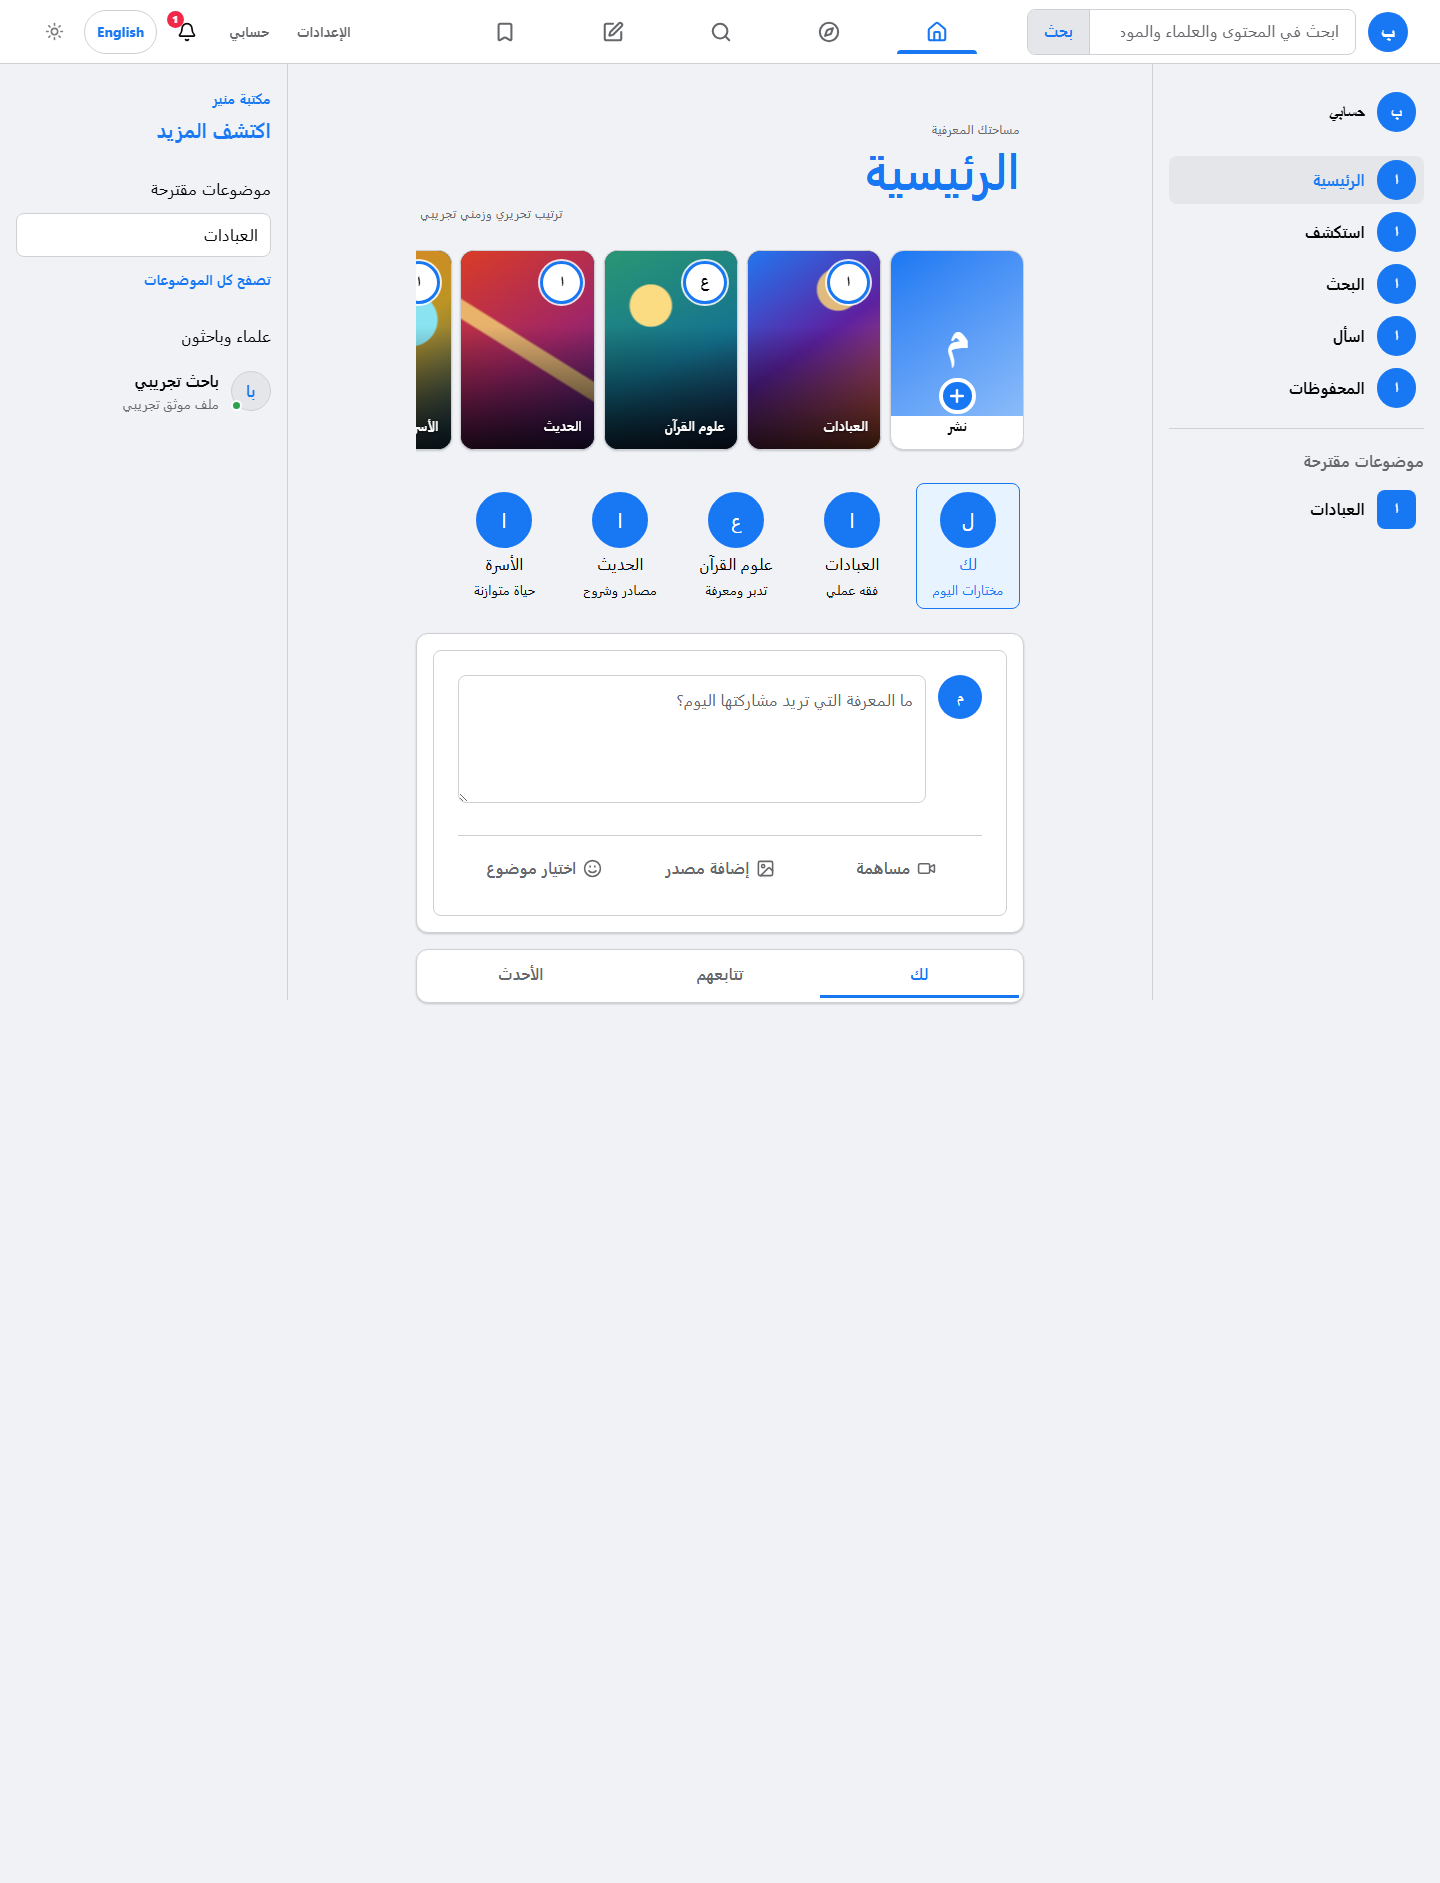
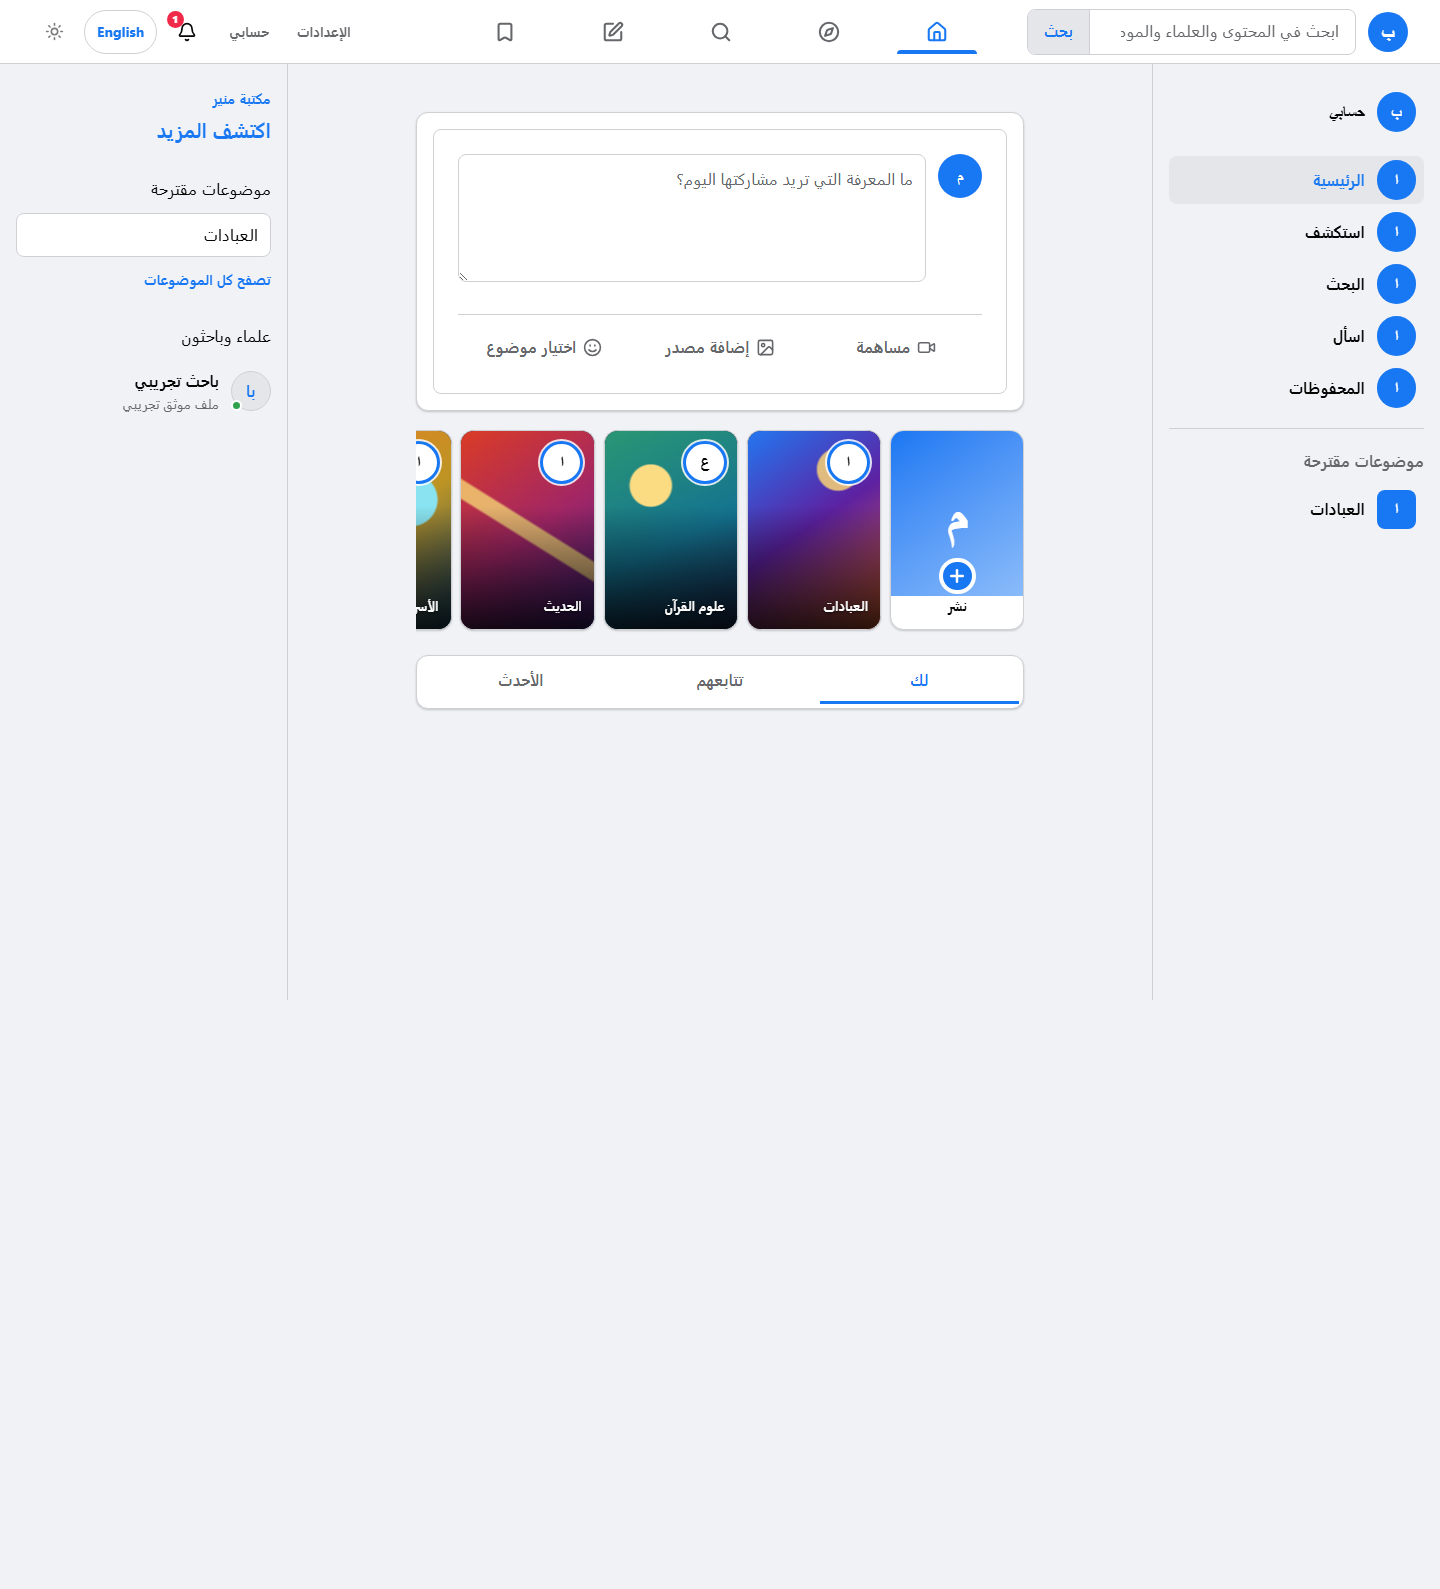
test(qa): verify compact composer stories order

diff --git a/e2e/stitch-visual.e2e.ts b/e2e/stitch-visual.e2e.ts
@@ -18,6 +18,10 @@ test.describe("Mounir Stitch shell visual contract", () => {
     await expect(navigation).toBeVisible();
     await expect(rail).toBeVisible();
     await expect(page.locator(".feed-stories")).toBeVisible();
+    const feedOrder = await page.locator(".social-feed").evaluate((element) =>
+      [...element.children].map((child) => child.className),
+    );
+    expect(feedOrder.slice(1, 3)).toEqual(["feed-composer", "feed-stories"]);
 
     const [navBox, contentBox, railBox] = await Promise.all([
       navigation.boundingBox(),

diff --git a/e2e/quality-gates.e2e.ts b/e2e/quality-gates.e2e.ts
@@ -44,7 +44,10 @@ test.describe("Arabic, RTL, accessibility, and responsive gates", () => {
     for (const route of routes) {
       await page.goto(route);
       await expect(page.locator("main")).toHaveCount(1);
-      await expect(page.locator("main h1").first()).toBeVisible();
+      const heading = page.locator("main h1").first();
+      await expect(heading).toHaveCount(1);
+      if (route === "/") await expect(heading).toHaveClass(/feed-sr-only/);
+      else await expect(heading).toBeVisible();
     }
   });
 });

diff --git a/workflow/handoffs/qa-agent-facebook-layout-v1.md b/workflow/handoffs/qa-agent-facebook-layout-v1.md
@@ -3,7 +3,7 @@
 - Status: `review`
 - Base ref: `14ff746`
 - Result ref: `committed handoff; see repository HEAD`
-- Tasks completed: `QA-FB-LAYOUT-001`
+- Tasks completed: `QA-FB-LAYOUT-001`, `QA-FB-LAYOUT-ORDER-002`
 
 ## Delivered outputs
 
@@ -22,6 +22,7 @@
 | RTL, landmarks, keyboard, privacy, and overflow | Cross-browser suite | pass |
 | Stories and side-region composition | Visible story and bounding-box assertions | pass |
 | Full regression | `npx playwright test --config=e2e/playwright.cross-browser.config.ts` | pass — 66/66 |
+| Requested compact order | Focused desktop/mobile/overflow/heading rerun across three engines | pass — 18/18; composer precedes stories |
 
 ## Decisions and assumptions
 
